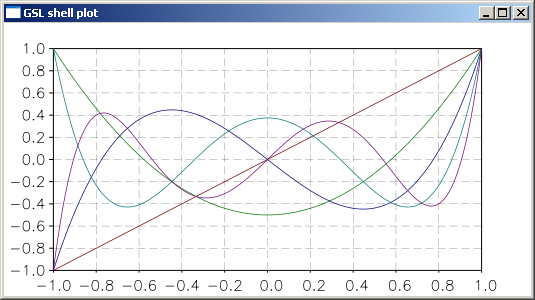
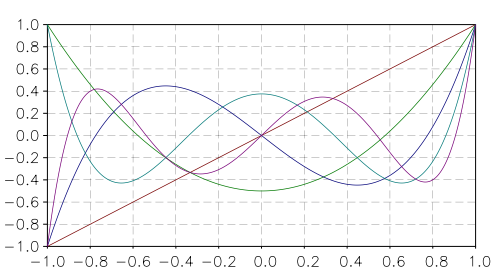
Implemented a gradient checker for multimin.

diff --git a/multimin.c b/multimin.c
@@ -24,6 +24,7 @@
 #include <gsl/gsl_multimin.h>
 #include <gsl/gsl_vector.h>
 #include <gsl/gsl_matrix.h>
+#include <gsl/gsl_deriv.h>
 
 #include "multimin.h"
 #include "lua-utils.h"
@@ -43,6 +44,8 @@ static int    multimin_get_x        (lua_State *L);
 static int    multimin_get_value    (lua_State *L);
 static int    multimin_get_gradient (lua_State *L);
 
+static int    multimin_check_gradient (lua_State *L);
+
 
 static double multimin_f_hook   (const gsl_vector * x, void * p);
 static void   multimin_df_hook  (const gsl_vector * x, void * p, gsl_vector *G);
@@ -59,6 +62,18 @@ struct fdf_multimin {
   gsl_multimin_fdfminimizer *s;
   gsl_multimin_function_fdf fdf[1];
   struct params p[1];
+};
+
+struct grad_check {
+  lua_State *L;
+  int f_index, x_index;
+  int var_vector_index;
+};
+
+enum fenvidx {
+  FENV_FUNCTION = 1,
+  FENV_X        = 2,
+  FENV_GRAD     = 3
 };
 
 static char const * const fdf_multimin_mt_name = "GSL.mmin";
@@ -81,6 +96,7 @@ static const struct luaL_Reg multimin_methods[] = {
 
 static const struct luaL_Reg multimin_functions[] = {
   {"minimizer",    multimin_new},
+  {"gradcheck",    multimin_check_gradient},
   {NULL, NULL}
 };
 
@@ -102,13 +118,13 @@ push_new_fdf_multimin (lua_State *L, int findex, size_t n,
   lua_newtable (L);
 
   lua_pushvalue (L, findex);
-  lua_rawseti (L, -2, 1); // 1 <- f
+  lua_rawseti (L, -2, FENV_FUNCTION);
 
   matrix_push_raw (L, n, 1);
-  lua_rawseti (L, -2, 2); // 2 <- x
+  lua_rawseti (L, -2, FENV_X);
 
   matrix_push_view (L, NULL);
-  lua_rawseti (L, -2, 3); // 3 <- G
+  lua_rawseti (L, -2, FENV_GRAD);
 
   lua_setfenv (L, -2);
 
@@ -223,9 +239,9 @@ fcall_args_prepare (lua_State *L, int index)
 {
   lua_settop  (L, index);
   lua_getfenv (L, index);
-  lua_rawgeti (L, index+1, 1);
-  lua_rawgeti (L, index+1, 2);
-  lua_rawgeti (L, index+1, 3);
+  lua_rawgeti (L, index+1, FENV_FUNCTION);
+  lua_rawgeti (L, index+1, FENV_X);
+  lua_rawgeti (L, index+1, FENV_GRAD);
   lua_remove  (L, index+1);
 } 
 
@@ -254,6 +270,81 @@ multimin_set (lua_State *L)
 
   if (status != GSL_SUCCESS)
     return luaL_error (L, "minimizer:set %s", gsl_strerror (status));
+
+  return 0;
+}
+
+static double
+f_check_hook (double x, void *_p)
+{
+  struct grad_check *p = _p;
+  lua_State *L = p->L;
+  gsl_matrix *xm = matrix_check (L, p->x_index);
+  gsl_matrix_set (xm, p->var_vector_index, 0, x);
+  lua_pushvalue (L, p->f_index);
+  lua_pushvalue (L, p->x_index);
+  lua_call (p->L, 1, 1);
+
+  if (lua_isnumber (L, -1))
+    {
+      double v = lua_tonumber (L, -1);
+      lua_pop (L, 1);
+      return v;
+    }
+  
+  return luaL_error (L, "function should return a real number");
+}
+
+int
+multimin_check_gradient (lua_State *L)
+{
+  struct fdf_multimin *m = check_init_fdf_multimin (L, 1);
+  gsl_matrix *xf, *x0 = matrix_check (L, 2);
+  double step_size = luaL_checknumber (L, 3);
+  struct grad_check gc[1];
+  gsl_matrix *gnum, *gfunc;
+  size_t k, n = m->p->n;
+  gsl_function F[1];
+  const double abs_err = 1e-5, rel_err = 1e-5;
+
+  gnum = matrix_push_raw (L, n, 1);
+
+  lua_getfenv (L, 1);
+  lua_rawgeti (L, -1, FENV_FUNCTION);
+
+  xf = matrix_push_raw (L, n, 1);
+
+  gc->L = L;
+  gc->x_index = lua_gettop(L);
+  gc->f_index = gc->x_index - 1;
+
+  F->function = & f_check_hook;
+  F->params   = gc;
+
+  for (k = 0; k < n; k++)
+    {
+      double result, abserr;
+      gc->var_vector_index = (int) k;
+      gsl_matrix_memcpy (xf, x0);
+      gsl_deriv_central (F, gsl_matrix_get (x0, k, 0), step_size / 50.0,
+			 &result, &abserr);
+      gsl_matrix_set (gnum, k, 0, result);
+    }
+
+  gfunc = matrix_push_raw (L, n, 1);
+
+  gsl_matrix_memcpy (xf, x0);
+
+  lua_call (L, 2, 1);
+
+  for (k = 0; k < n; k++)
+    {
+      double gn, gf;
+      gn = gsl_matrix_get (gnum,  k, 0);
+      gf = gsl_matrix_get (gfunc, k, 0);
+      if (fabs(gn - gf) > abs_err && fabs(gn - gf) >= fabs(gn) * rel_err)
+	return luaL_error (L, "gradient function is wrong");
+    }
 
   return 0;
 }

diff --git a/cnlinfit.c b/cnlinfit.c
@@ -27,7 +27,6 @@
 
 #include "matrix.h"
 #include "cmatrix.h"
-#include "fdfsolver.h"
 #include "nlinfit_helper.h"
 #include "lua-utils.h"
 #include "math-types.h"

diff --git a/doc/source/sf.rst b/doc/source/sf.rst
@@ -117,6 +117,11 @@ Functions
    For more information see Abramowitz & Stegun, Chapter 22.
 
 .. function:: legendreP(n, x)
+
+   .. figure:: examples-legendre-polynomials.png
+
+      Legendre polynomials  
+
 .. function:: legendreQ(n, x)
 
 .. function:: debye(n, x)
